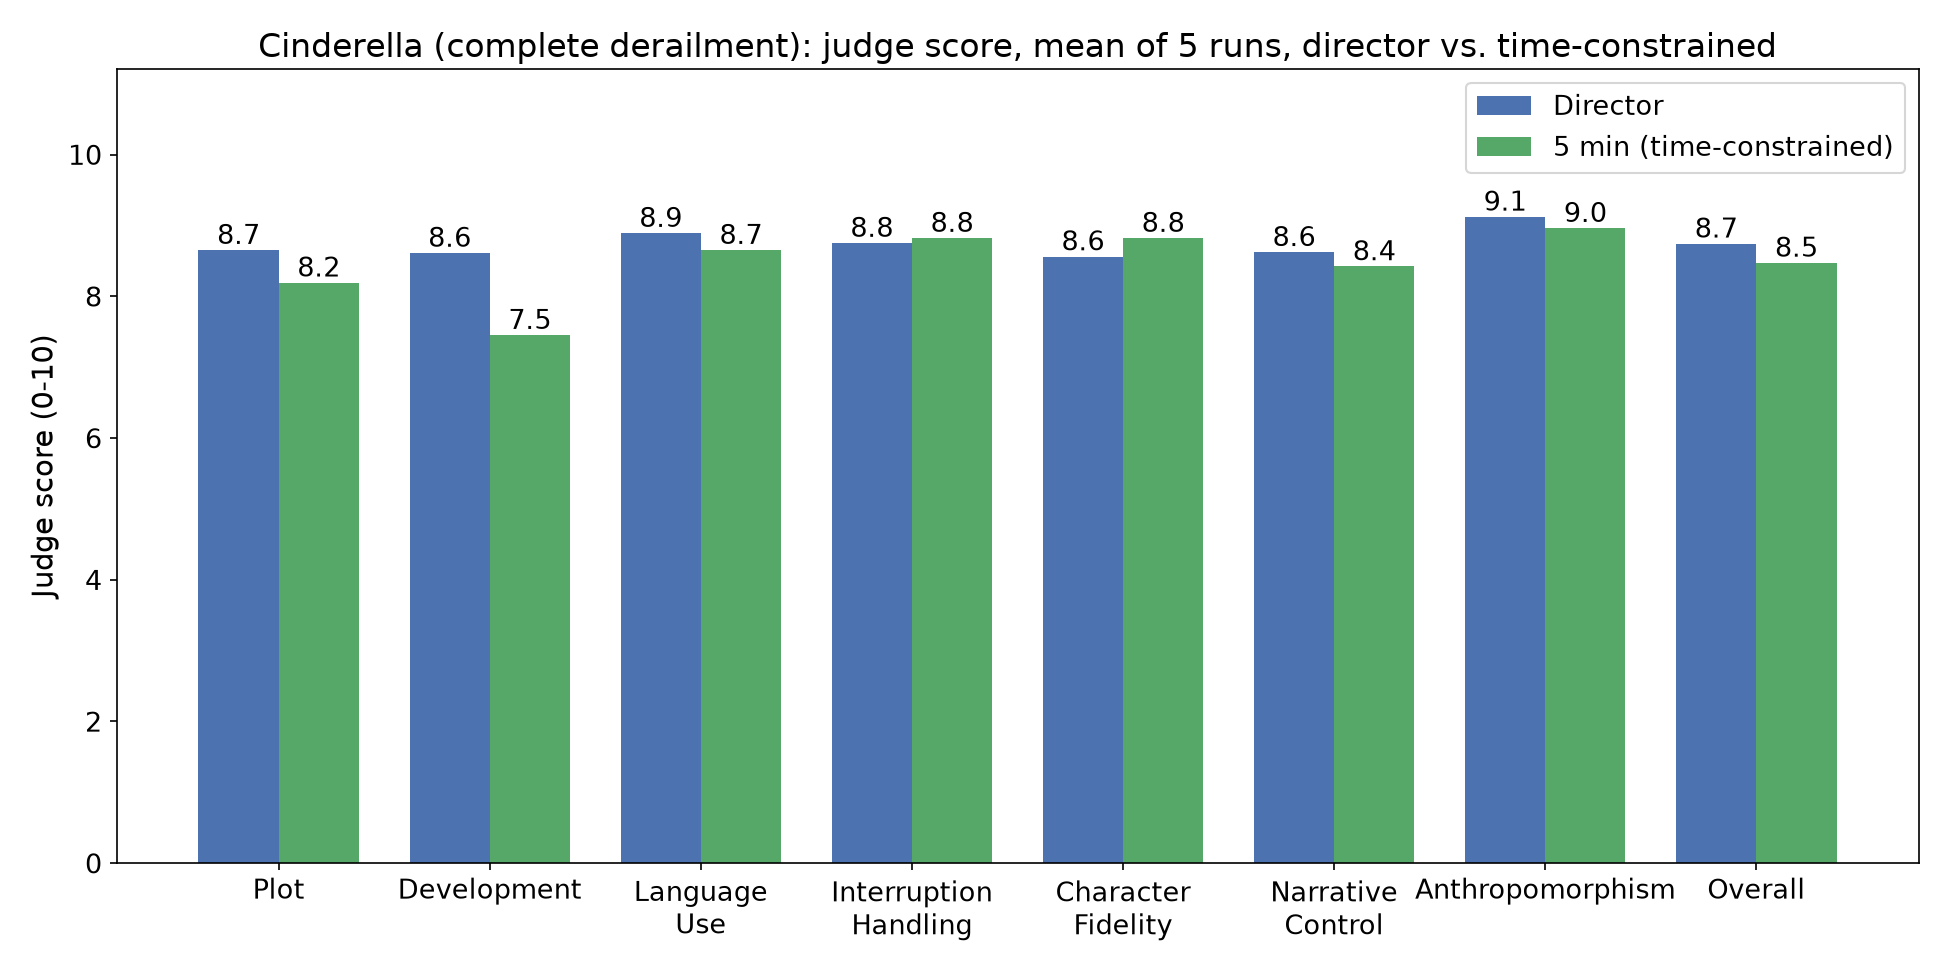
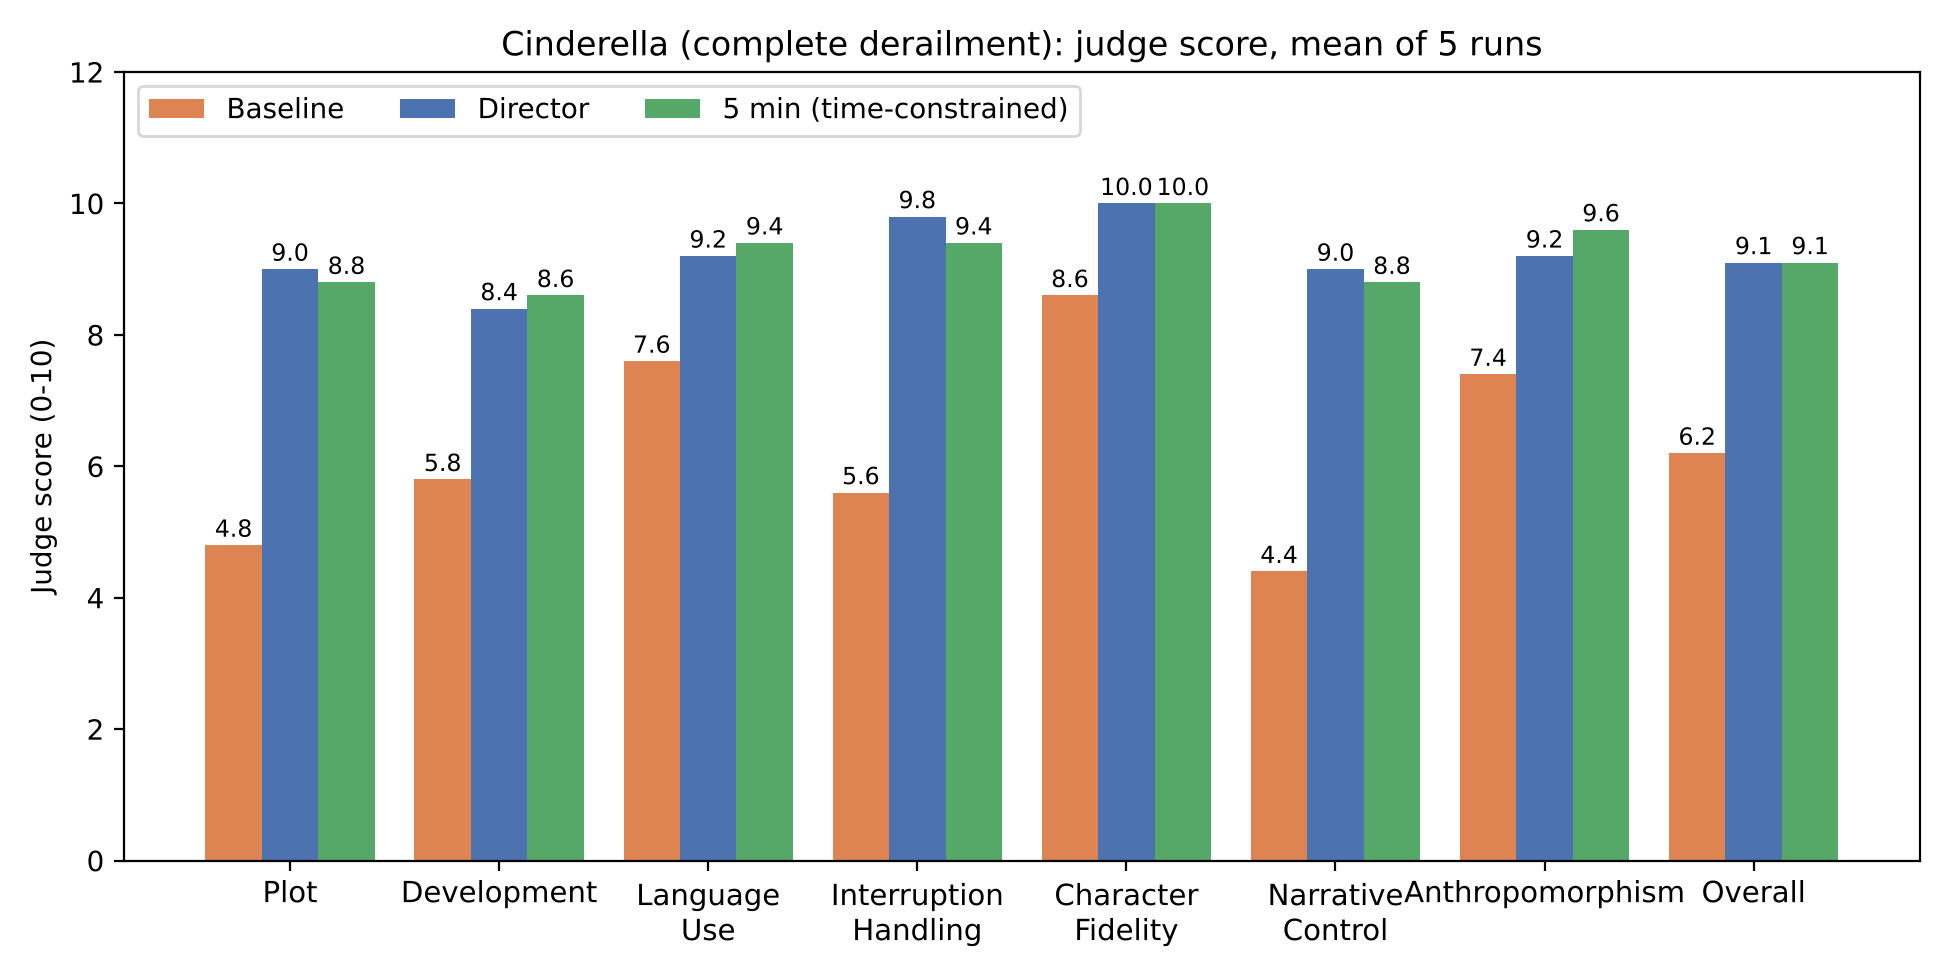
Cinderella cross-check: new 5-run judge values incl. baseline, figure and text
Claude-Session: https://claude.ai/code/session_01M93oRevghLswnboshza7Lk

diff --git a/latex/tex/results.tex b/latex/tex/results.tex
@@ -400,24 +400,25 @@ The two evaluations disagree on the overall rating. Participants rated the Direc
 
 \subsubsection{Cinderella}
 
-Director versus the 5-minute time-constrained Director on the Cinderella story of Section~\ref{sec:story2}.
+Director versus the 5-minute time-constrained Director on the Cinderella story of Section~\ref{sec:story2}. As for Frozen, we use the complete-derailment variant, because participants were asked to derail the story constantly. We also ran the baseline on this story, which the user study did not include for Cinderella.
 
 \begin{table}[htbp]
 \centering
 \caption{Cinderella (\texttt{olaf\_retells\_cinderella\_complete\_derailment}), the exact story served in the live study under sustained derailment: judge score, mean of 5 runs per condition. 5 min is the same budget as in the live study's time-constrained condition.}
 \label{tab:llm-cinderella-case}
-\begin{tabular}{lcc}
+\begin{tabular}{lccc}
 \toprule
-Dimension &  & 5 min \\
+Dimension & Baseline & Director & 5 min \\
 \midrule
-Plot                    & 8.65 & 8.19 \\
-Development             & 8.61 & 7.45 \\
-Language Use            & 8.89 & 8.65 \\
-Interruption Handling   & 8.75 & 8.82 \\
-Character Fidelity      & 8.56 & 8.82 \\
-Narrative Control       & 8.62 & 8.42 \\
-Anthropomorphism        & 9.12 & 8.96 \\
-Overall                 & 8.74 & 8.47 \\
+Plot                    & 4.8 & 9.0  & 8.8 \\
+Development             & 5.8 & 8.4  & 8.6 \\
+Language Use            & 7.6 & 9.2  & 9.4 \\
+Interruption Handling   & 5.6 & 9.8  & 9.4 \\
+Character Fidelity      & 8.6 & 10.0 & 10.0 \\
+Narrative Control       & 4.4 & 9.0  & 8.8 \\
+Anthropomorphism        & 7.4 & 9.2  & 9.6 \\
+\midrule
+Overall                 & 6.2 & 9.1  & 9.1 \\
 \bottomrule
 \end{tabular}
 \end{table}
@@ -425,7 +426,7 @@ Overall                 & 8.74 & 8.47 \\
 \begin{figure}[htbp]
 \centering
 \includegraphics[width=0.95\linewidth]{plots/15_cinderella_case_study_complete_derailment.png}
-\caption{Cinderella, complete derailment: judge score, director vs.\ the 5-minute time-constrained budget, mean of 5 runs per condition.}
+\caption{Cinderella, complete derailment: judge score, baseline, director and the 5-minute time-constrained director, mean of 5 runs per condition.}
 \label{fig:llm-cinderella-case}
 \end{figure}
 
@@ -442,17 +443,17 @@ Table~\ref{tab:cinderella-side} again puts the two evaluations side by side.
 \cmidrule(lr){3-4} \cmidrule(lr){5-6}
 Question & Judge dimension & Director & TC & Director & TC \\
 \midrule
-Q1 Coherence    & Plot                  & 3.79 & 3.71 & 8.65 & 8.19 \\
-Q2 Character    & Character Fidelity    & 4.14 & 4.14 & 8.56 & 8.82 \\
-Q4 Overall      & Overall               & 3.36 & 3.29 & 8.74 & 8.47 \\
-Q5a Derailment  & Interruption Handling & 4.07 & 3.75 & 8.75 & 8.82 \\
-                & Narrative Control     & 4.07 & 3.75 & 8.62 & 8.42 \\
+Q1 Coherence    & Plot                  & 3.79 & 3.71 & 9.0 & 8.8 \\
+Q2 Character    & Character Fidelity    & 4.14 & 4.14 & 10.0 & 10.0 \\
+Q4 Overall      & Overall               & 3.36 & 3.29 & 9.1 & 9.1 \\
+Q5a Derailment  & Interruption Handling & 4.07 & 3.75 & 9.8 & 9.4 \\
+                & Narrative Control     & 4.07 & 3.75 & 9.0 & 8.8 \\
 Q7 Ending       & no match              & 2.07 & 3.14 & --   & --   \\
 \bottomrule
 \end{tabular}
 \end{table}
 
-On the core questions, both evaluations find the two conditions close. Participants rated them within 0.32 points on every question, and none of the differences is significant (all $p \ge 0.40$). The judge places them within half a point on six of the seven dimensions and within 0.27 on Overall (8.74 vs.\ 8.47). The one larger judge gap is Development, where the Director leads by +1.16, likely because a time budget leaves less room to develop the story. The judge sees no such cost on Plot (8.65 vs.\ 8.19), and participants saw none on coherence (3.79 vs.\ 3.71).
+On the core questions, both evaluations find the two conditions close. Participants rated them within 0.32 points on every question, and none of the differences is significant (all $p \ge 0.40$). The judge places them within 0.4 points on every dimension and gives both the same Overall score (9.1). Both stay fully in character (10.0 on Character Fidelity), and the largest differences are small: the Director is ahead on Interruption Handling (9.8 vs.\ 9.4) and the time-constrained Director on Anthropomorphism (9.6 vs.\ 9.2). The baseline, which only the judge evaluated on this story, falls far behind both (Overall 6.2), with the same weaknesses as on Frozen: low scores on Narrative Control (4.4), Plot (4.8) and Interruption Handling (5.6), but a high score on Character Fidelity (8.6).
 
 The two evaluations differ on the ending. In the user study, the Director without a time budget was cut short in 86\% of the rounds and its ending was rated less satisfying than that of the time-constrained Director (2.07 vs.\ 3.14, \pval{0.016}). The judge cannot see this difference, because the automated runs of the Director have no 5-minute cap and can finish the story. The judge therefore confirms that adding a time budget costs little in quality, but the benefit of the time budget, reaching an ending in time, only shows in the user study.
 
